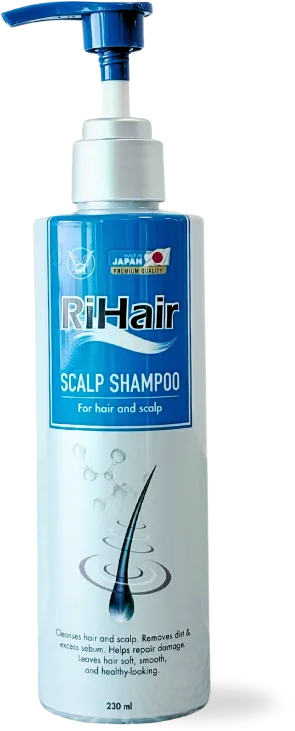
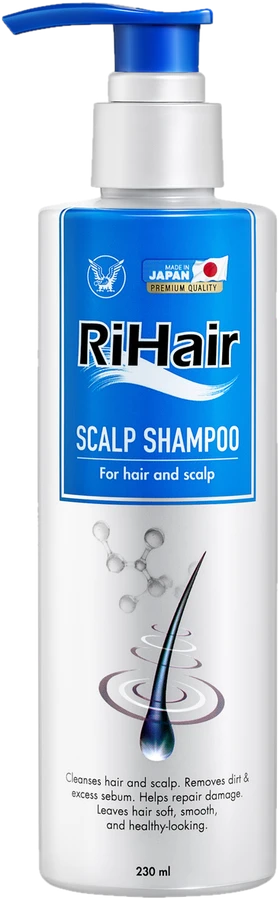
feat: apply client feedback round 2 (17-19 Nov)
- Lighter background and more visible card frames
- Gift showcase, prize cards and buyer prizes per client comments
- Product copy, USP strip with client logos, new packshots
- Terms acceptance line in the consent checkbox

diff --git a/index.html b/index.html
@@ -46,9 +46,9 @@
           <div class="hero__product">
             <figure class="hero__fig hero__fig--0"><img class="hero__img" src="assets/scalp-shampoo.webp" alt="Dầu gội" loading="eager"></figure>
             <figure class="hero__fig hero__fig--1"><img class="hero__img" src="assets/scalp-conditioner.webp" alt="Dầu xả" loading="eager"></figure>
-            <figure class="hero__fig hero__fig--2"><img class="hero__img" src="assets/strong-spray.webp" alt="Strong" loading="eager"></figure>
-            <figure class="hero__fig hero__fig--3"><img class="hero__img" src="assets/bubble-spray.webp" alt="Bubble" loading="eager"></figure>
-            <ul class="hero__names"><li>Dầu gội</li><li>Dầu xả</li><li>Strong</li><li>Bubble</li></ul>
+            <figure class="hero__fig hero__fig--2"><img class="hero__img" src="assets/strong-spray.webp" alt="Strong Spray" loading="eager"></figure>
+            <figure class="hero__fig hero__fig--3"><img class="hero__img" src="assets/bubble-spray.webp" alt="Bubble Spray" loading="eager"></figure>
+            <ul class="hero__names"><li>Dầu gội</li><li>Dầu xả</li><li>Strong Spray</li><li>Bubble Spray</li></ul>
           </div>
           <ul class="hl-cards" data-stagger data-ph>
             <li class="hl-card"><img class="hl-card__ico hl-card__ico--img" src="assets/gift-ipad-air.webp" alt="" loading="lazy"><p><span>Top 1 GMV battle:</span> <b>iPad Air M4</b> <em>trị giá 30M</em></p></li>
@@ -103,7 +103,7 @@
             <div class="hp" aria-hidden="true"><label>Website <input name="website" tabindex="-1" autocomplete="off"></label></div>
             <label class="check">
               <input type="checkbox" name="dong_y" value="yes" required>
-              <span>Tôi đồng ý cung cấp thông tin để RiHair liên hệ và gửi sample. <span class="req" aria-hidden="true">*</span></span>
+              <span>Tôi đồng ý cung cấp thông tin để RiHair liên hệ và gửi sample. Khi tham gia chương trình đồng nghĩa bạn chấp nhận cách vận hành chương trình và thể lệ của ban tổ chức. <span class="req" aria-hidden="true">*</span></span>
             </label>
             <p class="field__error" data-error-for="dong_y" aria-live="polite"></p>
             <p class="form__req"><span class="req" aria-hidden="true">*</span> Thông tin bắt buộc điền</p>
@@ -141,7 +141,7 @@
           </li>
           <li class="prod" data-ph data-tilt>
             <figure class="prod__img"><img src="assets/scalp-conditioner.webp" alt="RiHair Scalp Conditioner" loading="lazy"></figure>
-            <div class="prod__text"><h3>RiHair Scalp Conditioner</h3><p>Dầu xả nuôi dưỡng tóc mềm mượt và chắc khỏe từ gốc.</p><ul class="prod__usps"><li><i class="ph-fill ph-check-circle" aria-hidden="true"></i>Tóc mềm mượt, dễ chải, giảm xơ rối</li><li><i class="ph-fill ph-check-circle" aria-hidden="true"></i>Phức hợp dưỡng tóc cao cấp Cationic</li><li><i class="ph-fill ph-check-circle" aria-hidden="true"></i>Glycerin cấp ẩm, hỗ trợ phục hồi tóc hư tổn</li><li><i class="ph-fill ph-check-circle" aria-hidden="true"></i>3 không: Paraben - Dầu khoáng - Sulfate truyền thống</li></ul></div>
+            <div class="prod__text"><h3>RiHair Scalp Conditioner</h3><p>Dầu xả nuôi dưỡng tóc mềm mượt và chắc khỏe từ gốc.</p><ul class="prod__usps"><li><i class="ph-fill ph-check-circle" aria-hidden="true"></i>Tóc mềm mượt, dễ chải, giảm xơ rối</li><li><i class="ph-fill ph-check-circle" aria-hidden="true"></i>Phức hợp dưỡng tóc cao cấp Cationic hỗ trợ phục hồi tóc hư tổn</li><li><i class="ph-fill ph-check-circle" aria-hidden="true"></i>Glycerin cấp ẩm, giúp tóc chắc khỏe</li><li><i class="ph-fill ph-check-circle" aria-hidden="true"></i>3 không: Paraben - Dầu khoáng - Sulfate truyền thống</li></ul></div>
           </li>
           <li class="prod" data-ph data-tilt>
             <figure class="prod__img"><img src="assets/strong-spray.webp" alt="RiHair Strong Spray" loading="lazy"></figure>
@@ -152,7 +152,7 @@
             <div class="prod__text"><h3>RiHair Bubble Spray</h3><p>Xịt ngăn ngừa rụng tóc và hỗ trợ mọc tóc.</p><ul class="prod__usps"><li><i class="ph-fill ph-check-circle" aria-hidden="true"></i>Tinh chất Cỏ đắng Senburi</li><li><i class="ph-fill ph-check-circle" aria-hidden="true"></i>Vitamin E, B5</li><li><i class="ph-fill ph-check-circle" aria-hidden="true"></i>Công nghệ tia xịt CO₂: dễ thẩm thấu, mát lạnh, không nhờn rít</li><li><i class="ph-fill ph-check-circle" aria-hidden="true"></i>3 không: không Paraben, không silicone, không hormone</li></ul></div>
           </li>
         </ul>
-        <ul class="usps" data-stagger data-ph><li class="usp"><i class="ph-fill ph-seal-check usp__ico" aria-hidden="true"></i><p><b>Dược phẩm Taisho Nhật Bản</b>Hơn 110 năm kinh nghiệm nghiên cứu và phát triển</p></li><li class="usp"><i class="ph-fill ph-drop usp__ico" aria-hidden="true"></i><p><b>Chuẩn Nhật</b>Chuyên gia chăm sóc da đầu</p></li><li class="usp"><i class="ph-fill ph-leaf usp__ico" aria-hidden="true"></i><p><b>Cỏ đắng Senburi</b>Tinh chất cùng Vitamin E, B5 nuôi dưỡng nang tóc</p></li><li class="usp"><i class="ph-fill ph-shield-check usp__ico" aria-hidden="true"></i><p><b>Không Paraben</b>Công thức 3 KHÔNG riêng cho từng sản phẩm</p></li></ul>
+        <ul class="usps usps--3" data-stagger data-ph><li class="usp"><img class="usp__ico usp__ico--img" src="assets/usp-taisho.webp" alt="" loading="lazy"><p><b>Công ty dược phẩm Taisho Nhật Bản</b>Nhập khẩu và phân phối chính hãng bởi DHG Pharma</p></li><li class="usp"><img class="usp__ico usp__ico--img" src="assets/logo-rihair.webp" alt="" loading="lazy"><p><b>Chuẩn Nhật</b>Chuyên gia chăm sóc da đầu chuẩn Nhật</p></li><li class="usp"><img class="usp__ico usp__ico--img" src="assets/logo-rihair.webp" alt="" loading="lazy"><p><b>95% người dùng RiHair</b>đánh giá tóc giảm gãy rụng, da đầu khỏe và tóc trông dày hơn chỉ sau 4 tuần sử dụng</p></li></ul>
       </div>
     </section>
     <section class="kit">
@@ -163,9 +163,9 @@
           <ul class="kit__list" data-stagger data-ph><li><i class="ph-fill ph-check-circle" aria-hidden="true"></i>Dầu gội RiHair Scalp Shampoo</li><li><i class="ph-fill ph-check-circle" aria-hidden="true"></i>Dầu xả RiHair Scalp Conditioner</li><li><i class="ph-fill ph-check-circle" aria-hidden="true"></i>Xịt RiHair Strong Spray</li><li><i class="ph-fill ph-check-circle" aria-hidden="true"></i>Xịt RiHair Bubble Spray</li><li><i class="ph-fill ph-check-circle" aria-hidden="true"></i>Thư mời và kịch bản live</li></ul>
           <a href="#dang-ky" class="btn btn--primary" data-magnetic>Đăng ký nhận sample<i class="ph ph-arrow-right" aria-hidden="true"></i></a>
         </div>
-        <div class="kit__stage kit__stage--lineup" data-reveal><figure><img src="assets/scalp-shampoo.webp" alt="Scalp Shampoo" loading="lazy"><figcaption>Scalp Shampoo</figcaption></figure><figure><img src="assets/scalp-conditioner.webp" alt="Scalp Conditioner" loading="lazy"><figcaption>Scalp Conditioner</figcaption></figure><figure><img src="assets/strong-spray.webp" alt="Strong Spray" loading="lazy"><figcaption>Strong Spray</figcaption></figure><figure><img src="assets/bubble-spray.webp" alt="Bubble Spray" loading="lazy"><figcaption>Bubble Spray</figcaption></figure></div>
+        <div class="kit__stage kit__stage--lineup" data-reveal><figure><img src="assets/scalp-shampoo.webp" alt="RiHair Scalp Shampoo" loading="lazy"><figcaption>RiHair Scalp Shampoo</figcaption></figure><figure><img src="assets/scalp-conditioner.webp" alt="RiHair Scalp Conditioner" loading="lazy"><figcaption>RiHair Scalp Conditioner</figcaption></figure><figure><img src="assets/strong-spray.webp" alt="RiHair Strong Spray" loading="lazy"><figcaption>RiHair Strong Spray</figcaption></figure><figure><img src="assets/bubble-spray.webp" alt="RiHair Bubble Spray" loading="lazy"><figcaption>RiHair Bubble Spray</figcaption></figure></div>
       </div>
-      <div class="wrap"><div class="gifts" data-reveal><i class="gifts__spark gifts__spark--1" aria-hidden="true"></i><i class="gifts__spark gifts__spark--2" aria-hidden="true"></i><i class="gifts__spark gifts__spark--3" aria-hidden="true"></i><i class="gifts__spark gifts__spark--4" aria-hidden="true"></i><p class="gifts__title"><span>Quà tặng độc quyền Black Friday</span></p><p class="gifts__date">27 - 28 - 29/11</p><ul class="gifts__row gifts__row--4"><li class="gift"><div class="gift__img"><img src="assets/gift-dyson-dryer.webp" alt="Máy sấy tóc Dyson" loading="lazy"></div><div class="gift__label"><h3>Máy sấy tóc Dyson</h3><p class="gift__tag">Top 1 phiên live dài nhất</p></div></li><li class="gift gift--main"><div class="gift__img"><img src="assets/gift-ipad-air.webp" alt="iPad Air M4" loading="lazy"></div><div class="gift__label"><h3>iPad Air M4</h3><p class="gift__tag">Top 1 Creator</p></div></li><li class="gift"><div class="gift__img"><img src="assets/prize-iphone-pro.webp" alt="iPhone 18 Pro" loading="lazy"></div><div class="gift__label"><h3>iPhone 18 Pro</h3><p class="gift__tag">Top 1 Spender</p></div></li><li class="gift"><div class="gift__img"><img src="assets/gift-philips-comb.webp" alt="Lược massage Philips" loading="lazy"></div><div class="gift__label"><h3>Lược massage Philips</h3><p class="gift__tag">Top 1 Spender mỗi ngày</p></div></li></ul></div></div>
+      <div class="wrap"><div class="gifts" data-reveal><i class="gifts__spark gifts__spark--1" aria-hidden="true"></i><i class="gifts__spark gifts__spark--2" aria-hidden="true"></i><i class="gifts__spark gifts__spark--3" aria-hidden="true"></i><i class="gifts__spark gifts__spark--4" aria-hidden="true"></i><p class="gifts__title"><span>Quà tặng độc quyền Black Friday</span></p><p class="gifts__date">Duy nhất 27 - 28 - 29/11</p><ul class="gifts__row gifts__row--4"><li class="gift"><div class="gift__img"><img src="assets/gift-dyson-dryer.webp" alt="Máy sấy tóc Dyson" loading="lazy"></div><div class="gift__label"><h3>Máy sấy tóc Dyson</h3><p class="gift__tag">Top 1 phiên live dài nhất</p></div></li><li class="gift gift--main"><div class="gift__img"><img src="assets/gift-ipad-air.webp" alt="iPad Air M4" loading="lazy"></div><div class="gift__label"><h3>iPad Air M4</h3><p class="gift__tag">Top 1 Creator</p></div></li><li class="gift"><div class="gift__img"><img src="assets/prize-iphone-pro.webp" alt="iPhone 18 Pro" loading="lazy"></div><div class="gift__label"><h3>iPhone 18 Pro</h3><p class="gift__tag">Top 1 Spender</p></div></li><li class="gift"><div class="gift__img"><img src="assets/gift-philips-comb.webp" alt="Lược massage Philips" loading="lazy"></div><div class="gift__label"><h3>Lược massage Philips</h3><p class="gift__tag">Top 1 Spender mỗi ngày</p></div></li></ul></div><div class="kv kv--note" data-ph><i class="ph ph-image" aria-hidden="true"></i><p>Đặt ảnh BXH top spender</p></div></div>
     </section>
     <section class="board" id="giai-thuong">
       <p class="watermark" aria-hidden="true">BATTLE</p>
@@ -186,19 +186,19 @@
         <div class="ranks ranks--4" data-stagger data-ph>
           <article class="rank">
             <img class="rank__ico rank__ico--img" src="assets/prize-voucher.svg" alt="" loading="lazy">
-            <div><p class="rank__label">Top 2</p><p class="rank__value">7<small>M</small></p><p class="rank__note">1 <span class="nb">E-Voucher</span> - GMV tối thiểu 25 triệu</p></div>
+            <div><p class="rank__label">Top 2</p><p class="rank__value rank__value--text"><span class="nb">E-Voucher</span> 7 Triệu</p><p class="rank__note">1 giải - GMV tối thiểu 25 Triệu</p></div>
           </article>
           <article class="rank">
             <img class="rank__ico rank__ico--img" src="assets/prize-voucher.svg" alt="" loading="lazy">
-            <div><p class="rank__label">Top 3</p><p class="rank__value">5<small>M</small></p><p class="rank__note">1 <span class="nb">E-Voucher</span> - GMV tối thiểu 20 triệu</p></div>
+            <div><p class="rank__label">Top 3</p><p class="rank__value rank__value--text"><span class="nb">E-Voucher</span> 5 Triệu</p><p class="rank__note">1 giải - GMV tối thiểu 20 Triệu</p></div>
           </article>
           <article class="rank">
             <img class="rank__ico rank__ico--img" src="assets/prize-voucher.svg" alt="" loading="lazy">
-            <div><p class="rank__label">Top 4 - 5</p><p class="rank__value">2<small>M</small>/giải</p><p class="rank__note">2 <span class="nb">E-Voucher</span> - GMV tối thiểu 16 triệu</p></div>
+            <div><p class="rank__label">Top 4 - 5</p><p class="rank__value rank__value--text"><span class="nb">E-Voucher</span> 2 Triệu</p><p class="rank__note">2 giải - GMV tối thiểu 16 Triệu</p></div>
           </article>
           <article class="rank">
             <img class="rank__ico rank__ico--img" src="assets/prize-voucher.svg" alt="" loading="lazy">
-            <div><p class="rank__label">Top 6 - 10</p><p class="rank__value">1<small>M</small>/giải</p><p class="rank__note">5 <span class="nb">E-Voucher</span> - GMV tối thiểu 10 triệu</p></div>
+            <div><p class="rank__label">Top 6 - 10</p><p class="rank__value rank__value--text"><span class="nb">E-Voucher</span> 1 Triệu</p><p class="rank__note">5 giải - GMV tối thiểu 10 Triệu</p></div>
           </article>
         </div>
         <div class="prizes prizes--split" data-ph>
@@ -211,15 +211,24 @@
             </div>
             <img class="duration__img" src="assets/gift-dyson-dryer.webp" alt="Máy sấy tóc Dyson" loading="lazy">
           </article>
-          <article class="buyer" data-reveal>
-            <div class="buyer__text">
-              <h3><i class="ph-fill ph-crown-simple" aria-hidden="true"></i>Giải người mua</h3>
-              <p class="buyer__sub">Top spender 3 ngày</p>
-              <p class="buyer__prize">iPhone 18 Pro 256GB <span>trị giá <b>39M</b></span></p>
-              <p class="buyer__rule">1 giải - tổng giá trị đơn hàng tối thiểu 30 triệu</p>
-              <p class="buyer__extra"><span>Top 1 spender mỗi ngày:</span> <b>Lược điện massage da đầu Philips 1511</b><small>3 giải, trị giá 400K/giải - đơn hàng giá trị cao nhất trong ngày và tổng đơn tối thiểu 1 triệu</small></p>
+          <article class="buyer buyer--rows" data-reveal>
+            <h3><i class="ph-fill ph-crown-simple" aria-hidden="true"></i>Giải người mua</h3>
+            <div class="buyer__row">
+              <div>
+                <p class="buyer__sub"><i class="ph-fill ph-crown-simple" aria-hidden="true"></i>Top spender 3 ngày</p>
+                <p class="buyer__prize">iPhone 18 Pro 256GB <span>trị giá <b>39M</b></span></p>
+                <p class="buyer__rule">1 giải - tổng giá trị đơn hàng tối thiểu 30 triệu</p>
+              </div>
+              <img class="buyer__pic" src="assets/prize-iphone-pro.webp" alt="iPhone 18 Pro 256GB" loading="lazy">
             </div>
-            <div class="buyer__img"><img src="assets/prize-iphone-pro.webp" alt="" loading="lazy"><img src="assets/gift-philips-comb.webp" alt="" loading="lazy"></div>
+            <div class="buyer__row">
+              <div>
+                <p class="buyer__sub"><i class="ph-fill ph-crown-simple" aria-hidden="true"></i>Top 1 spender mỗi ngày</p>
+                <p class="buyer__prize">Lược điện massage da đầu Philips 1511 <span>trị giá <b>400K</b></span></p>
+                <p class="buyer__rule">3 giải - đơn hàng giá trị cao nhất trong ngày và tổng đơn tối thiểu 1 triệu</p>
+              </div>
+              <img class="buyer__pic" src="assets/gift-philips-comb.webp" alt="Lược điện massage da đầu Philips 1511" loading="lazy">
+            </div>
           </article>
         </div>
         <p class="note board__note"><i class="ph ph-info" aria-hidden="true"></i>Chỉ tính GMV của đơn hàng phát sinh trong phiên live từ 00:00 27/11 đến 23:59 29/11. Big KOL và D-Day không tranh giải.</p>
@@ -249,7 +258,7 @@
         </ul>
         <h2 class="sec-title" data-reveal>4 bước tham gia đơn giản</h2>
         <ol class="steps" data-stagger>
-          <li class="step"><span class="step__num">01</span><span class="step__ico"><i class="ph-fill ph-file-text ico" aria-hidden="true"></i></span><p>Điền form<br>(60 giây)</p></li>
+          <li class="step"><span class="step__num">01</span><span class="step__ico"><i class="ph-fill ph-file-text ico" aria-hidden="true"></i></span><p>Điền form<br>đăng ký</p></li>
           <li class="step"><span class="step__num">02</span><span class="step__ico"><i class="ph-fill ph-package ico" aria-hidden="true"></i><img class="step__thumb" src="assets/strong-spray.webp" alt="" loading="lazy"></span><p>Nhận sample<br>& thư mời</p></li>
           <li class="step"><span class="step__num">03</span><span class="step__ico"><i class="ph-fill ph-tiktok-logo ico" aria-hidden="true"></i></span><p>Lên live gắn<br>giỏ hàng RiHair</p></li>
           <li class="step"><span class="step__num">04</span><span class="step__ico"><i class="ph-fill ph-gift ico" aria-hidden="true"></i></span><p>Nhận quà<br>& thưởng</p></li>

diff --git a/style.css b/style.css
@@ -590,6 +590,61 @@ small { font-size: .62em; }
   .buyer__img img[src*="gift-"] { height: 120px; }
 }
 
+/* ===== Sửa theo comment khách 17-19/11 ===== */
+/* Dải chữ chạy: chữ nằm giữa dải màu */
+.band ul { align-items: center; }
+.band li { display: flex; align-items: center; line-height: 1; }
+/* Tagline không rớt dòng */
+.hero--cards .hero__tagline { white-space: nowrap; font-size: clamp(17px, 1.9vw, 23px); }
+.hero__names { gap: 4px; }
+.hero__names li { font-size: 10px; padding: 3px 7px; }
+/* Khung thẻ nổi hơn trên nền */
+.hl-card, .countdown, .prod, .usp, .rank, .act, .info, .perk-list li, .duration { box-shadow: 0 0 0 1.5px var(--card-line), 0 0 26px -8px var(--shadow-c), 0 20px 40px -30px var(--shadow-c); }
+/* USP: hình/logo thay icon */
+.usps--3 { grid-template-columns: repeat(3, 1fr); }
+.usp__ico--img { width: 72px; height: 72px; border-radius: 14px; background: #fff; object-fit: contain; padding: 2px; }
+.usp__ico--img[src*="logo-"] { padding: 8px; }
+.usp b { font-size: 17px; }
+/* Bộ sample 3 hộp: xếp cạnh nhau, không chồng */
+.kit__stage--3 { display: flex; align-items: flex-end; justify-content: center; gap: 14px; height: auto; min-height: 240px; }
+.kit__stage--3 .kit__img { position: static; }
+.kit__stage--3 .kit__img--0, .kit__stage--3 .kit__img--1 { width: 37%; left: auto; right: auto; bottom: auto; }
+.kit__stage--3 .kit__img--2 { width: 22%; left: auto; bottom: auto; border-radius: 12px; }
+.kit__stage--lineup figcaption { font-size: 13px; max-width: 110px; line-height: 1.25; }
+/* Top 1: viền sáng làm nổi quà */
+.top1__img { position: relative; padding: 16px; border-radius: 26px; border: 2px solid var(--gift-neon); background: radial-gradient(circle at 50% 45%, rgb(255 255 255 / .2), transparent 72%); box-shadow: 0 0 30px var(--gift-glow), inset 0 0 30px var(--gift-glow); overflow: visible; clip-path: none !important; }
+.top1__img img { filter: drop-shadow(0 0 16px var(--gift-neon)) drop-shadow(0 16px 20px rgb(0 0 0 / .45)) !important; }
+/* Thẻ hạng: Top / E-Voucher XX Triệu / số giải */
+.rank__value--text { font-size: 26px; }
+/* Giải người mua: mỗi giải một hàng, ảnh ngang hàng với giải */
+.buyer--rows { display: block; }
+.buyer__row { display: grid; grid-template-columns: minmax(0, 1fr) 130px; gap: 18px; align-items: center; margin-top: 16px; padding-top: 16px; border-top: 1px solid rgb(255 255 255 / .35); }
+.buyer--rows h3 + .buyer__row { border-top: 0; padding-top: 0; }
+.buyer__sub { display: flex; align-items: center; gap: 8px; font-size: 19px; }
+.buyer__sub i { font-size: 1.15em; }
+.buyer--rows .buyer__prize { margin-top: 4px; font-size: clamp(21px, 2.2vw, 27px); font-weight: 900; line-height: 1.2; }
+.buyer--rows .buyer__prize span { font-size: .72em; font-weight: 600; white-space: nowrap; }
+.buyer--rows .buyer__rule { font-size: 14px; }
+.buyer__pic { justify-self: center; max-height: 140px; width: auto; max-width: 130px; object-fit: contain; filter: drop-shadow(0 14px 16px rgb(0 0 0 / .35)); }
+.buyer__pic[src*="gift-halio"] { border-radius: 16px; filter: none; box-shadow: 0 10px 24px -10px rgb(0 0 0 / .5); }
+/* Dải quà: bỏ vòng tròn, ảnh Halio rõ trong ô trắng */
+.gift--main .gift__img::after { display: none; }
+.gift__img img[src*="gift-halio"] { height: 74%; margin-bottom: 40px; border-radius: 22px; filter: none; -webkit-mask-image: none; mask-image: none; box-shadow: 0 0 0 2px #fff, 0 0 30px var(--gift-glow); }
+.gifts__row--4 .gift__label h3 { font-size: clamp(14px, 1.35vw, 18px); }
+.gifts__row--4 .gift--main .gift__label h3 { font-size: clamp(17px, 1.75vw, 23px); }
+.kv--note { margin-top: 20px; }
+@media (max-width: 1024px) { .usps--3 { grid-template-columns: 1fr; } }
+@media (max-width: 640px) {
+  .buyer__row { grid-template-columns: minmax(0, 1fr) 96px; gap: 12px; }
+  .buyer__pic { max-width: 96px; max-height: 110px; }
+  .kit__stage--3 { min-height: 0; gap: 8px; }
+  .top1__img { padding: 12px; }
+  .gift__img img[src*="gift-halio"] { margin-bottom: 34px; }
+}
+.kit__stage--3 .kit__img--2 { width: auto; height: 250px; border-radius: 0; }
+.kit__stage--3 .kit__img--0, .kit__stage--3 .kit__img--1 { width: 36%; }
+@media (max-width: 640px) { .kit__stage--3 .kit__img--2 { height: 150px; } }
+
 /* ===== RiHair: tone đen + đỏ theo poster "Mega Live RiHair" khách gửi 13/11 (bản sáng cũ: theme-rihair-light.css.bak) ===== */
 .theme-rihair {
   --page-bg: radial-gradient(900px 600px at 6% -5%, rgb(255 30 40 / .26), transparent 60%), radial-gradient(900px 700px at 100% 40%, rgb(255 30 40 / .14), transparent 60%), #0a0506;
@@ -664,3 +719,15 @@ small { font-size: .62em; }
 @media (max-width: 1024px) { .theme-rihair .hero--cards .hero__product { width: 264px; } }
 .theme-rihair { --gifts-bg: radial-gradient(120% 90% at 50% 0%, #6a1014 0%, #2c0a0c 55%, #120506 100%); --gifts-title: #ffffff; --gift-card: linear-gradient(180deg, #ffffff 0%, #e2e5eb 100%); --gift-ink: #1b1214; --gift-accent: #c4161c; --gift-glow: rgb(255 42 51 / .6); }
 .theme-rihair { --gift-neon: #ff6b72; --gift-card-shade: rgb(150 160 182 / .55); }
+/* 19/11: nền bớt đen, pha đỏ + đen; khung thẻ pha đỏ cho nổi; viên tiêu đề đỏ như nút Đăng ký */
+.theme-rihair {
+  --page-bg: radial-gradient(1100px 700px at 6% -5%, rgb(255 30 40 / .55), transparent 62%), radial-gradient(1000px 800px at 100% 30%, rgb(255 30 40 / .36), transparent 62%), radial-gradient(1000px 800px at 12% 70%, rgb(196 22 28 / .36), transparent 60%), radial-gradient(900px 700px at 92% 96%, rgb(255 50 60 / .3), transparent 60%), #3c0b0f;
+  --pill-bg: linear-gradient(95deg, #ff2a33, #c4161c);
+  --card: rgb(255 80 88 / .17); --card-strong: rgb(255 80 88 / .21); --card-line: rgb(255 120 126 / .65);
+  --prod-bg: linear-gradient(160deg, #70161b, #3d0b0e);
+  --kit-bg: linear-gradient(135deg, rgb(255 255 255 / .1), rgb(255 42 51 / .28));
+  --muted: #e2cfd1; --watermark: rgb(255 80 88 / .09);
+}
+.theme-rihair .top__bar, .theme-rihair .form { --muted: #6b5c5e; --card-line: #f0d9da; }
+.theme-rihair .pill { box-shadow: 0 10px 24px -12px var(--shadow-c); }
+.theme-rihair .foot { background: #1d0507; }
